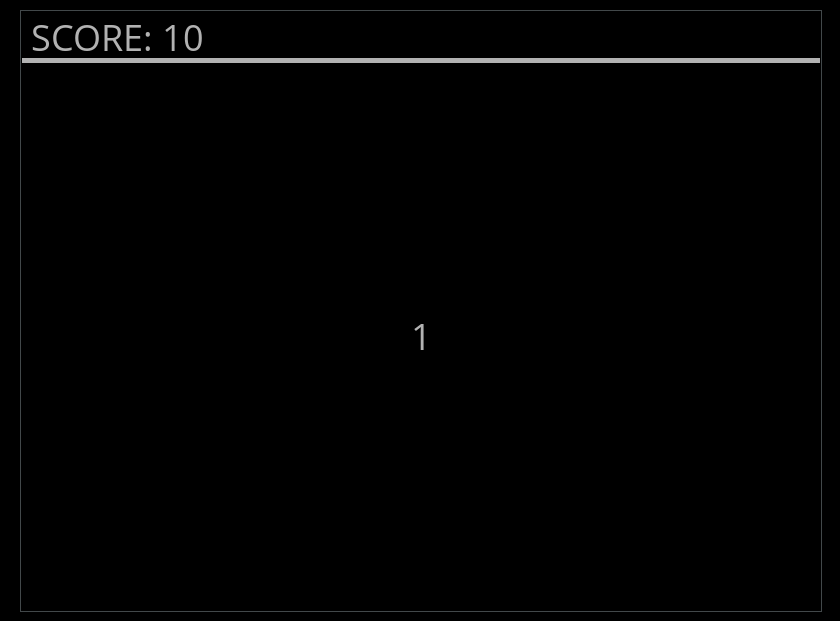
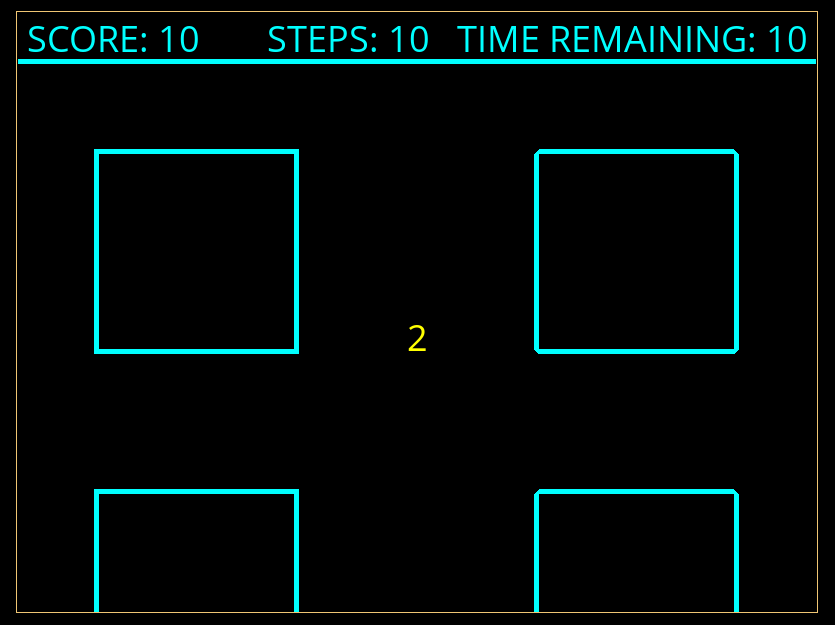
update status

diff --git a/src/main.rs b/src/main.rs
@@ -107,7 +107,8 @@ allegro_main! {
     let timer = Timer::new(&core, 1.0 / 60.0).unwrap();
 
     // Loading our custom font from the disk.
-    let font = ttf_addon.load_ttf_font("OpenSans-Regular.ttf", 36, Flag::zero()).unwrap();
+    let font = ttf_addon.load_ttf_font("OpenSans-Regular.ttf",
+    36, Flag::zero()).unwrap();
 
     // Instantiating and registering all the sources that creates events.
     let eq = EventQueue::new(&core).unwrap();
@@ -117,20 +118,43 @@ allegro_main! {
     let mut redraw = true;
     timer.start();
 
-    let blue = Color::from_rgb_f(38.0, 139.0, 210.0);
     let dark_green = Color::from_rgb_f(0.0, 43.0, 54.0);
     let yellow = Color::from_rgb_f(181.0, 137.0, 0.0);
+    let black = Color::from_rgb_f(0.0, 0.0, 0.0);
 
     'exit: loop {
 
         if redraw && eq.is_empty() {
-            core.clear_to_color(Color::from_rgb_f(0.0, 0.0, 0.0));
-            core.draw_text(&font, Color::from_rgb_f(1.0, 1.0, 1.0),
+            core.clear_to_color(black);
+
+            core.draw_text(&font, yellow,
             (display.get_width() / 2) as f32, (display.get_height() / 2) as f32,
             FontAlign::Centre, &rand_gold_position().to_string());
 
-            core.draw_text(&font, blue, 10.0, 1.0, FontAlign::Left, "SCORE: 10");
-            primitives.draw_line(1.0, 50.0, (DISPLAY_WIDTH - 1) as f32, 50.0, blue, RECT_THICKNESS as f32);
+            core.draw_text(&font, dark_green,
+                10.0, 1.0, FontAlign::Left, "SCORE: 10");
+            core.draw_text(&font, dark_green,
+                ((DISPLAY_WIDTH / 2) - 150) as f32, 1.0,
+                FontAlign::Left, "STEPS: 10");
+            core.draw_text(&font, dark_green,
+                (DISPLAY_WIDTH - 360) as f32, 1.0,
+                FontAlign::Left, "TIME REMAINING: 10");
+            primitives.draw_line(1.0, 50.0,
+                (DISPLAY_WIDTH - 1) as f32, 50.0, dark_green,
+                RECT_THICKNESS as f32);
+
+            primitives.draw_rectangle(80.0, 140.0, 280.0, 340.0,
+                dark_green, RECT_THICKNESS as f32);
+            primitives.draw_rectangle(80.0, 480.0, 280.0, 680.0,
+                dark_green, RECT_THICKNESS as f32);
+
+            primitives.draw_rectangle((DISPLAY_WIDTH - 80) as f32,
+            140.0, (DISPLAY_WIDTH - 280) as f32,
+            340.0, dark_green, RECT_THICKNESS as f32);
+
+            primitives.draw_rectangle((DISPLAY_WIDTH - 80) as f32,
+            480.0, (DISPLAY_WIDTH - 280) as f32,
+            680.0, dark_green, RECT_THICKNESS as f32);
 
             core.flip_display();
             redraw = false;
